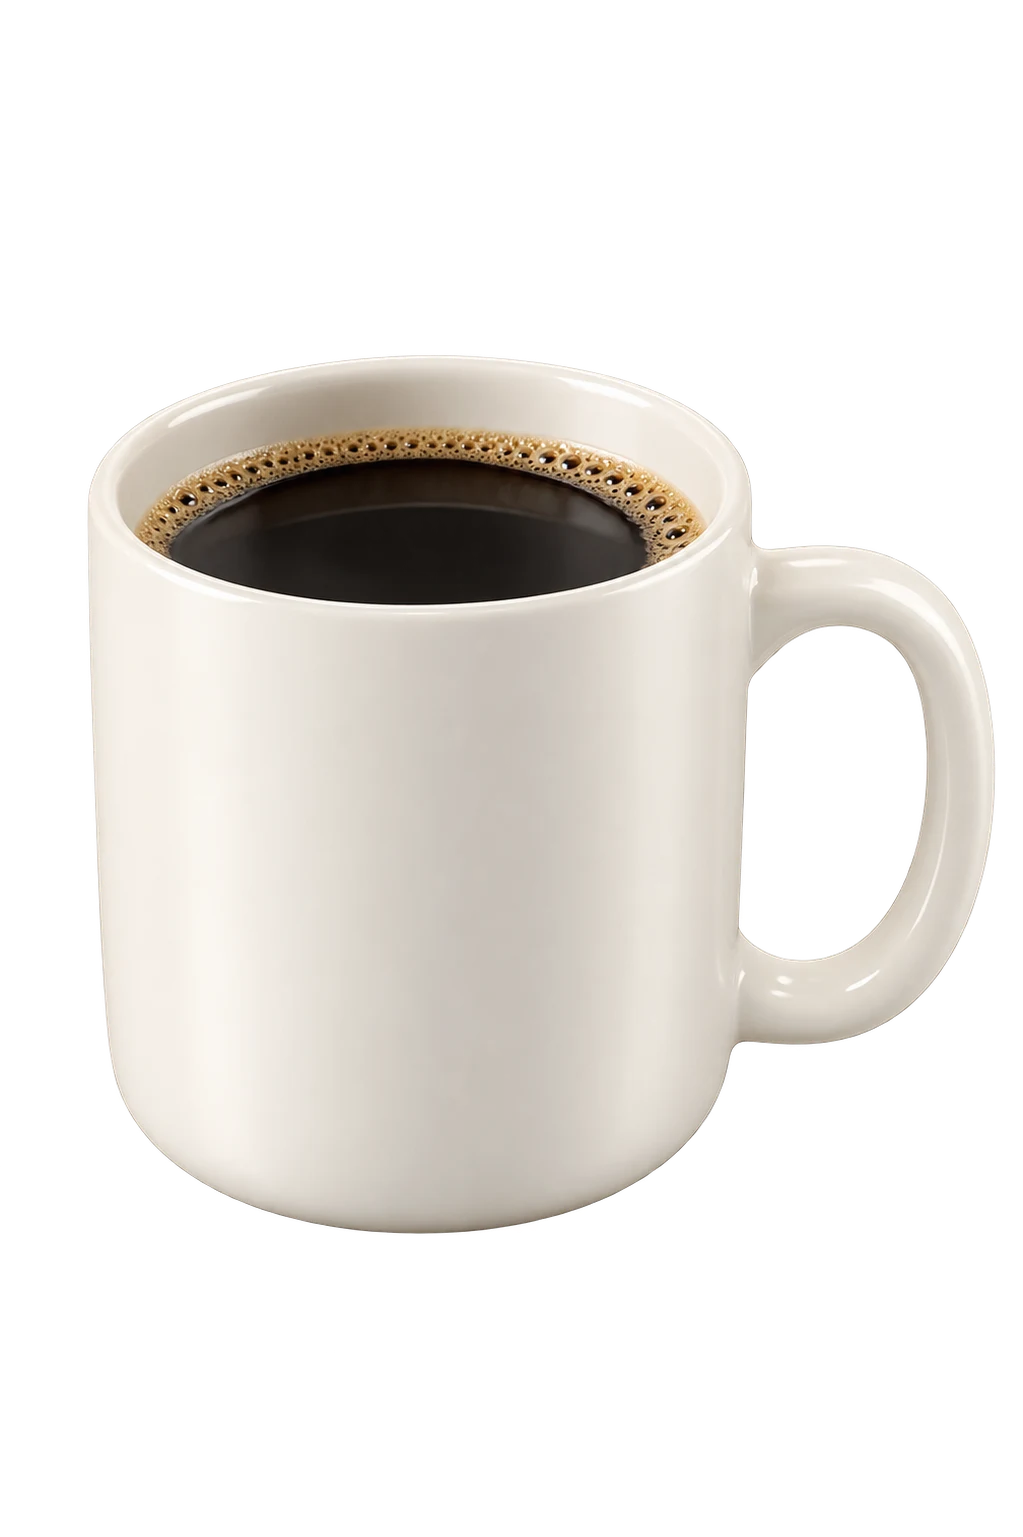
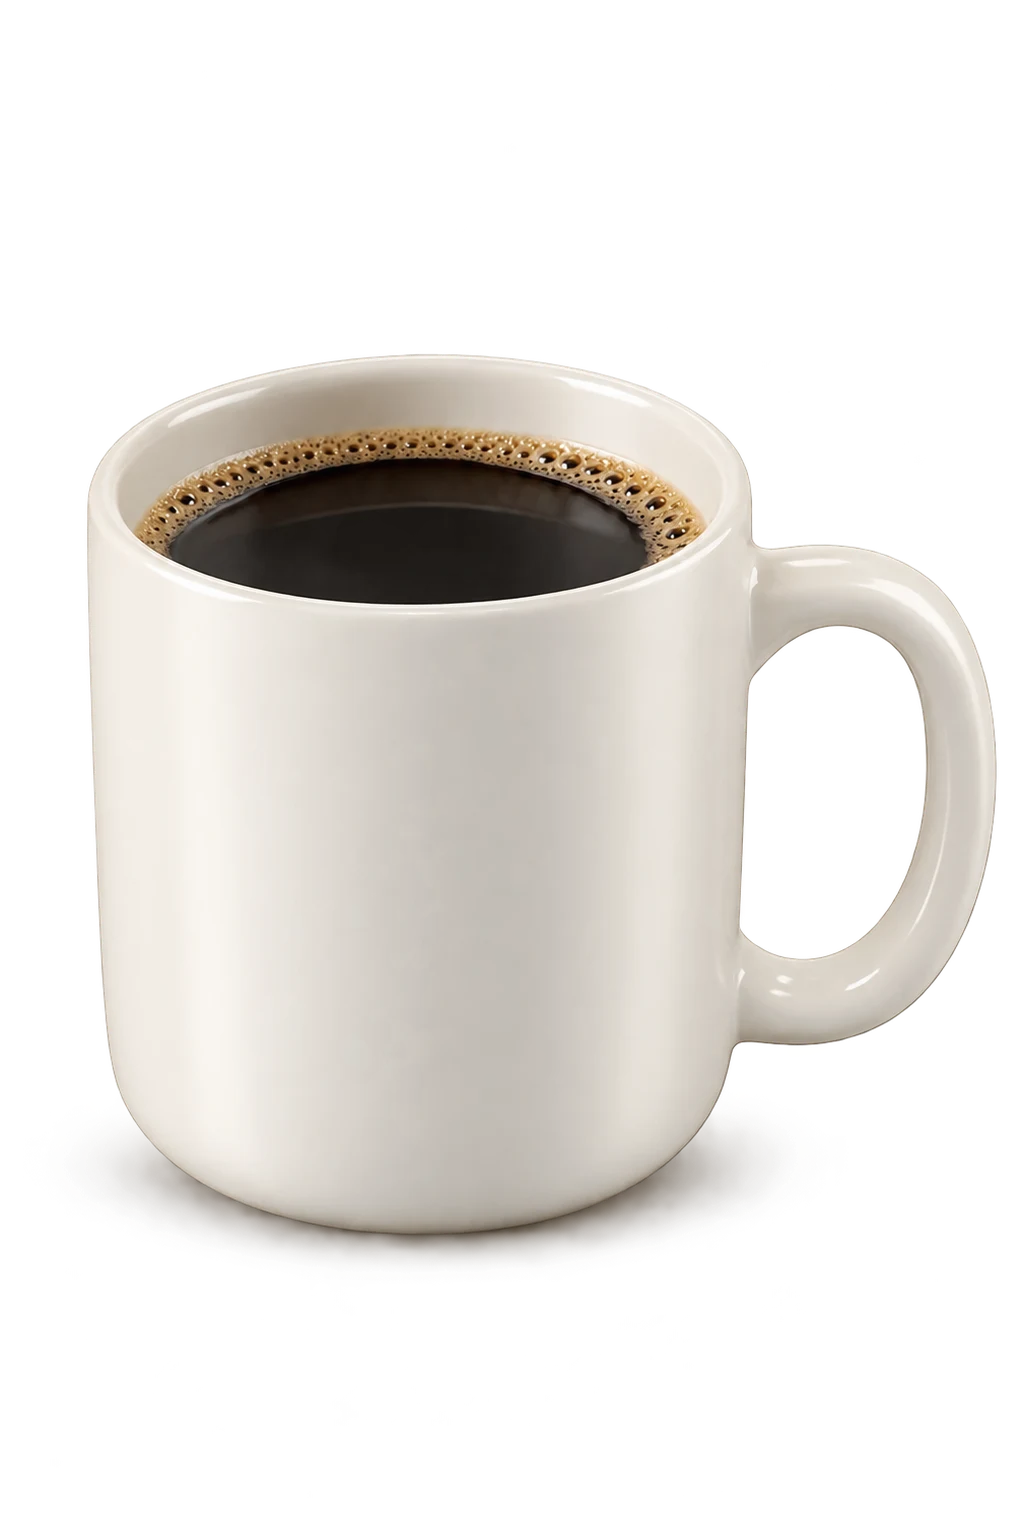
커피 머그잔을 아래로 내리고 그림자를 더하다
커피 테마 소품의 아래 여백을 줄이고 머그잔 바닥에 부드러운 그림자를 추가한다. 커피 김의 시작 위치도 새 배치에 맞춘다.

Changed region(s): [[0.1212, 0.7183, 0.7273, 0.8432], [0.1515, 0.2811, 0.6667, 0.3748]]

diff --git a/src/animated-paper.ts b/src/animated-paper.ts
@@ -489,8 +489,9 @@ export class 동적종이효과 {
     const x = (paper.width * 0.98 - width) / Math.max(paper.width, 1);
     const w = width / Math.max(paper.width, 1);
     const h = height / Math.max(paper.height, 1);
-    return { x, w, h, center: x + w * (this.theme === '커피' ? 0.42 : 0.5),
-      originY: this.theme === '커피' ? 1 - h * 0.67 : 1 - h * 0.90,
+    const bottom = this.theme === '커피' ? -h * 0.15 : 0;
+    return { x, w, h, bottom, center: x + w * (this.theme === '커피' ? 0.42 : 0.5),
+      originY: this.theme === '커피' ? 1 - h * 0.52 : 1 - h * 0.90,
       scale: this.theme === '커피' ? h / 0.31 : h };
   }
 
@@ -510,7 +511,7 @@ export class 동적종이효과 {
     gl.enableVertexAttribArray(propAttribute);
     gl.vertexAttribPointer(propAttribute, 2, gl.FLOAT, false, 0, 0);
     gl.uniform1i(this.propUniforms.u_propImage, 0);
-    gl.uniform4f(this.propUniforms.u_propRect, x, 0, w, h);
+    gl.uniform4f(this.propUniforms.u_propRect, x, rect.bottom, w, h);
     gl.uniform1f(this.propUniforms.u_textBottom, textBottom);
     gl.uniform1f(this.propUniforms.u_dimBehindText, this.theme === '촛불' ? 1 : 0);
     gl.drawArrays(gl.TRIANGLE_STRIP, 0, 4);
